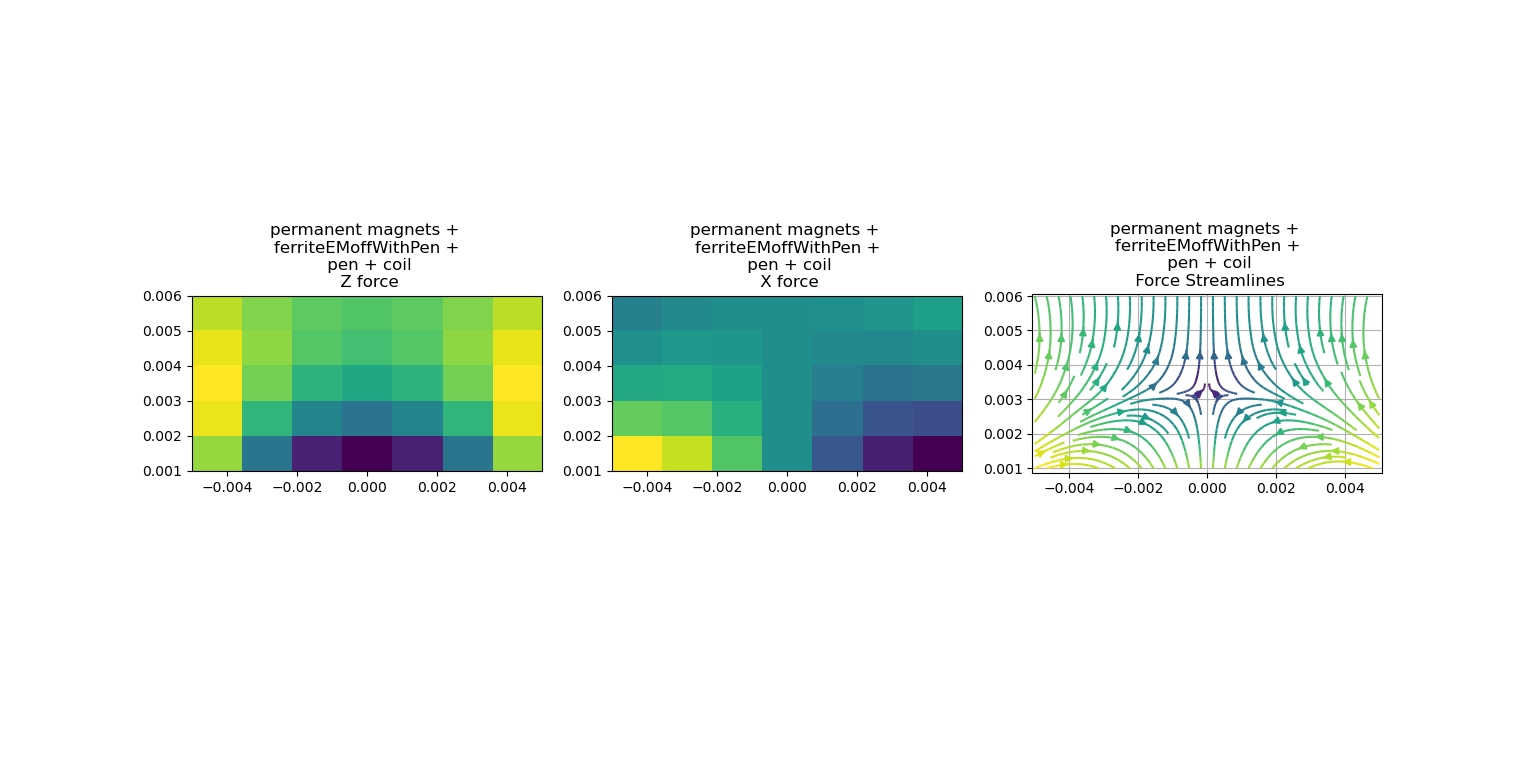
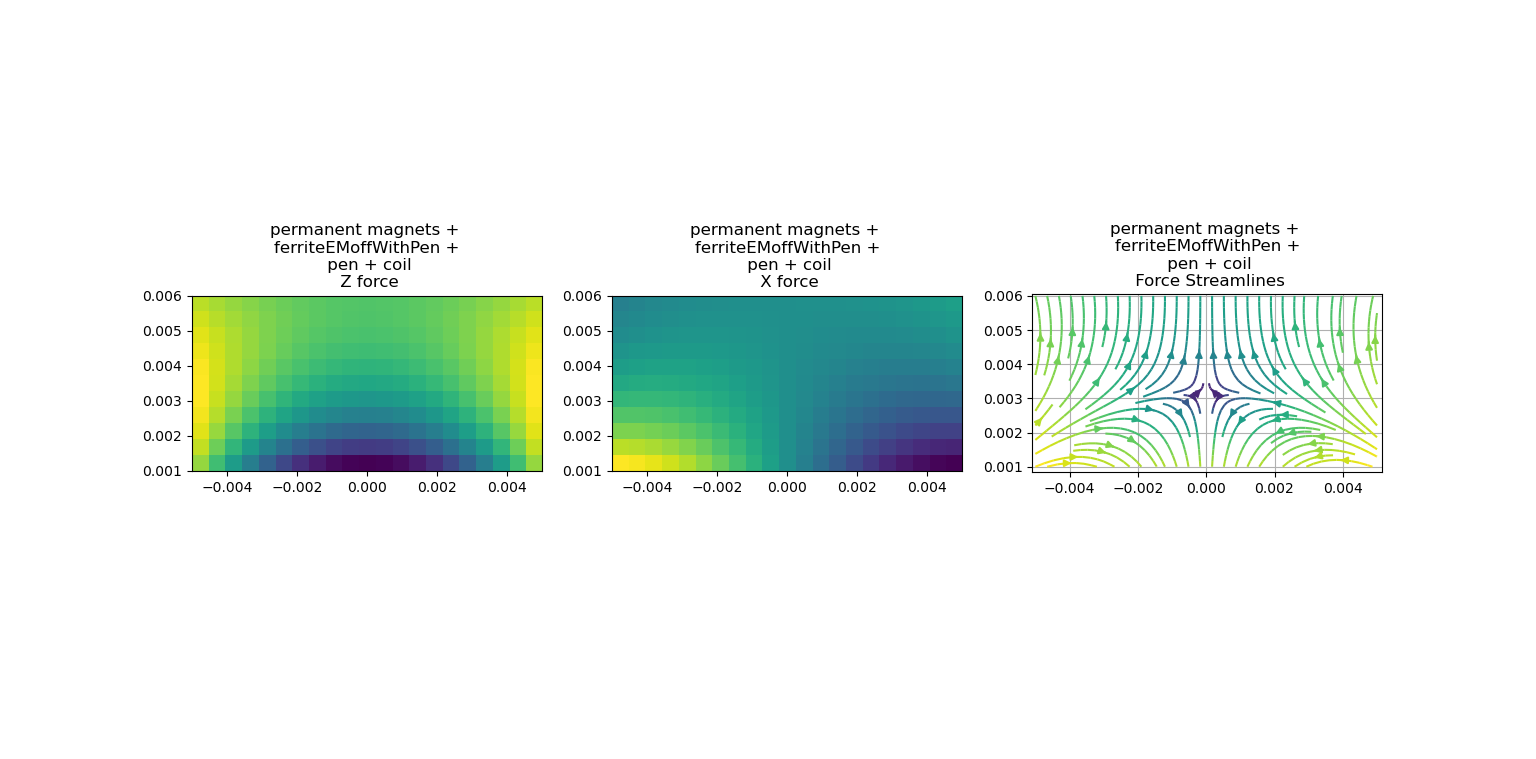
increase force calculation resolution and update plots

diff --git a/background/magneticForceOnMagnet.py b/background/magneticForceOnMagnet.py
@@ -618,10 +618,10 @@ def experiment8(plot = True):
         penMagnet2.rotate_from_angax(angle = -5, axis = 'y', anchor = (0, 0, HOVER_HEIGHT + MAGNET_H/2), degrees = True)
 
         # grid...
-        xs = np.linspace(-5e-3, 5e-3, 7)
-        zs = np.linspace(1e-3, 6e-3, 5)
+        xs = np.linspace(-5e-3, 5e-3, 21)
+        zs = np.linspace(1e-3, 6e-3, 11)
         # zs = np.linspace(-1e-3, 12e-3, 5)
-        Fs = np.zeros(shape = (5, 7, 3))
+        Fs = np.zeros(shape = (11, 21, 3))
         for lv1, x in enumerate(xs):
             for lv2, z in enumerate(zs): # hoverheight is 3e-3. z replaces hoverHeight
                 penMagnet1.position = (x, 0.00, z + MAGNET_H/2)
